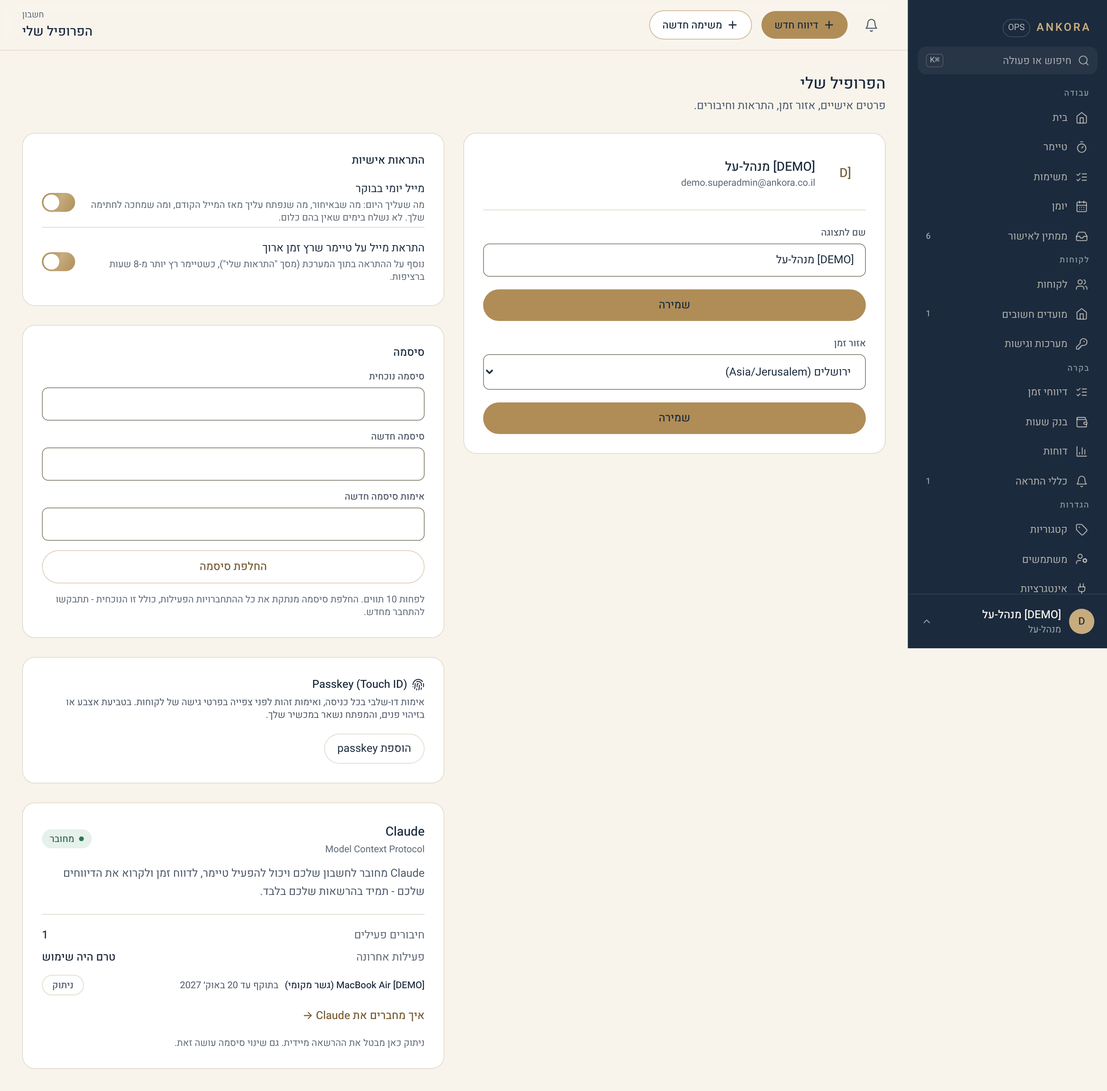
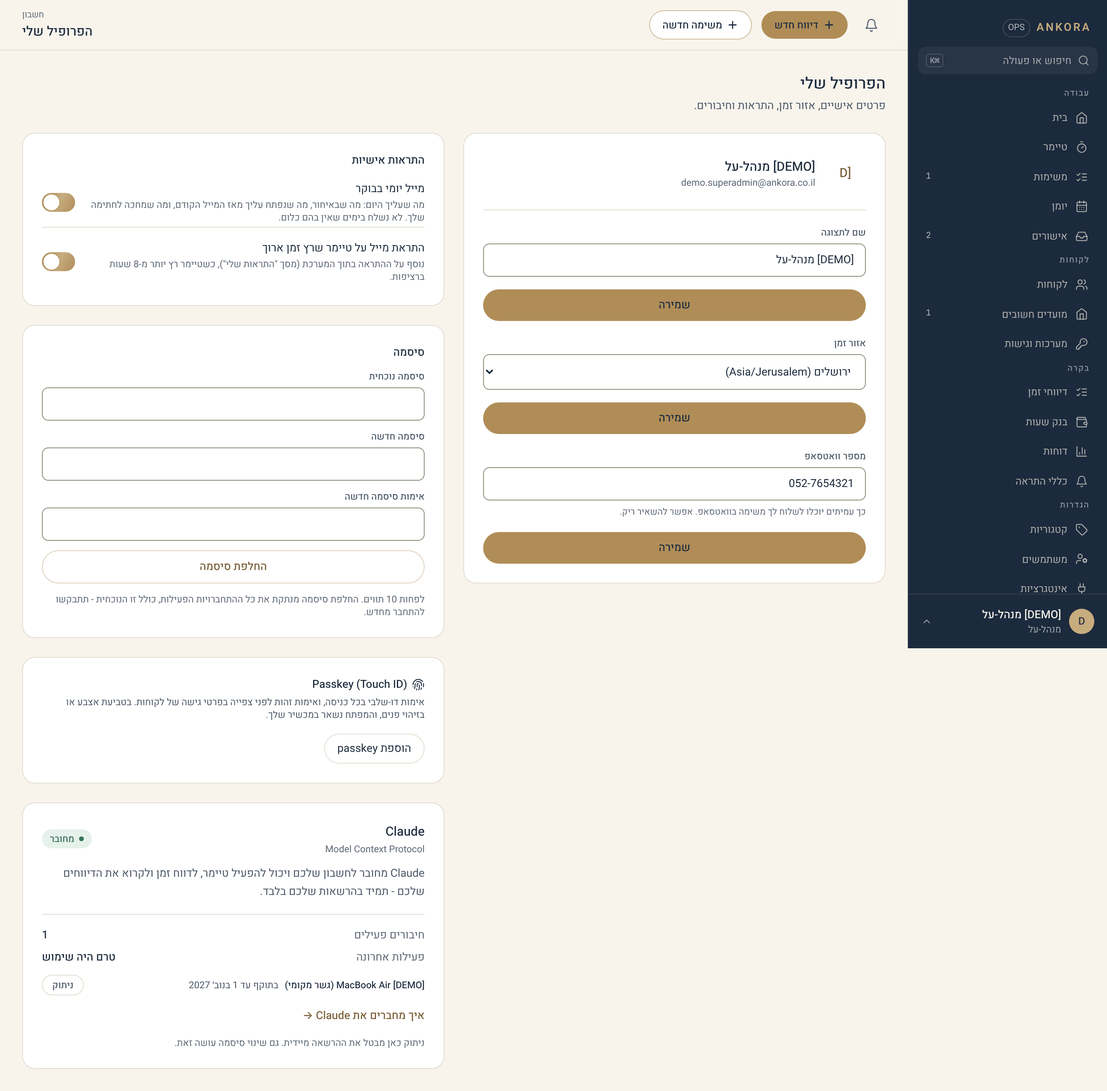
תיעוד: בדיקה שבועית 1.11 - מדריך, ERD ו-README
Claude-Session: https://claude.ai/code/session_015t38bRrRqjtbhz

Changed region(s): [[0.435, 0.4051, 0.7768, 0.5297]]

diff --git a/app/(product)/app/(authenticated)/guide/content.ts b/app/(product)/app/(authenticated)/guide/content.ts
@@ -200,7 +200,7 @@ export const GUIDE_GROUPS: GuideGroup[] = [
         ],
         steps: [
           "לניווט בין שבועות: חצים בראש רצועת השבוע.",
-          "להזנה ידנית: מלאו את שורת הטופס (תאריך, מ־/עד, לקוח, קטגוריה, הערה) ולחצו \"הוספת דיווח\". ההערה חובה: מה נעשה עבור הלקוח, בכמה מילים. בתאריך שאינו היום ייפתח גם שדה סיבה - הוא חובה.",
+          "להזנה ידנית: מלאו את שורת הטופס (תאריך, \"משעה\", \"עד שעה\", לקוח, קטגוריה, הערה) ולחצו \"הוספת דיווח\". ההערה חובה: מה נעשה עבור הלקוח, בכמה מילים. בתאריך שאינו היום ייפתח גם שדה סיבה - הוא חובה.",
           "לעריכה: לחצו \"עריכה\" בשורת הדיווח, בתוך חלון 48 השעות.",
         ],
         images: [{ src: "/guide/my-time.png", alt: "מסך הזמן שלי עם רשימת דיווחים שבועית", caption: "מסך \"הזמן שלי\" - תצוגה שבועית" }],
@@ -215,6 +215,8 @@ export const GUIDE_GROUPS: GuideGroup[] = [
           "לכל משימה סטטוס אחד מתוך חמישה: פתוחה, בביצוע, ממתינה לאישור, הושלמה, או בארכיון. שינוי סטטוס הוא מיידי ואינו דורש שמירה נפרדת.",
           "בדף של משימה מופיע גם \"גישות למערכות של\" הלקוח, כשנשמרו לו גישות. צפייה בסיסמה משם נרשמת ביומן יחד עם המשימה, ולכן זו הדרך המועדפת לצפות בגישה כשעובדים על משימה.",
           "רואים ויוצרים משימות רק עבור הלקוחות שהוקצו לכם (אותה הרשאה בדיוק כמו בבחירת לקוח במסך הטיימר) - אלא אם יש לכם הרשאת ניהול לקוחות, ואז רואים את כולם.",
+          "בדף של משימה, לצד הטיימר, יש שני כפתורים: \"שיתוף\" ו\"דיווח ידני\". נפתח רק אחד מהם בכל פעם.",
+          "\"בלי AI\": לקוח שביקש ששום דבר שלו לא יעבור דרך AI מסומן \"בלי AI\" בהגדרות הלקוח, ואז כל המשימות, המסמכים והתיק שלו מטופלים בידי אדם בלבד. אפשר לסמן גם משימה בודדת, בתיבה \"בלי AI: המשימה מטופלת בידי אדם בלבד\" בדף המשימה. השלבים והמסמכים של משימה מסומנת יורשים את הסימון. במשימה כזו אין \"קדם עם קלוד\", והפרומפטים והכלים של Claude לא קוראים אותה. כל איש צוות יכול לסמן, ורק מנהל יכול להסיר סימון, כי הסרה היא הכיוון ששולח חומר ל-AI. סימון שמגיע מהלקוח או ממשימת האב מוצג כעובדה ואי אפשר להסיר אותו מהמשימה.",
         ],
         steps: [
           "ליצירת משימה: במחשב לחצו \"משימה חדשה\" בפס העליון (ליד \"דיווח חדש\"), מכל מסך. בטלפון לחצו \"משימה\" במסך המשימות. בחלונית שנפתחת בחרו לקוח (וקטגוריה, אופציונלי), אחראי ומפקח (אופציונלי), הזינו שם משימה ולחצו \"הוספת משימה\".",
@@ -224,6 +226,10 @@ export const GUIDE_GROUPS: GuideGroup[] = [
           "למעבר בין תצוגות: מתג \"רשימה\" / \"לוח\" בראש המסך. בלוח ארבע עמודות לפי סטטוס (פתוחות, בביצוע, ממתינות לאישור, הושלמו), וגרירת כרטיס בין עמודות משנה את הסטטוס.",
           "לקיבוץ ולחיפוש: מתג \"לפי לקוח\" מקבץ את הרשימה לפי לקוח. בשדה החיפוש מחפשים בכותרת, בתיאור, בשרשור ובשם הלקוח - מקלידים ולוחצים Enter. לצדו בוררי \"לקוח\" ו\"קטגוריה\".",
           "לשינוי סטטוס: בחרו סטטוס חדש מהתפריט הנפתח ליד המשימה - השינוי נשמר אוטומטית.",
+          "למיון: לחצו על שם עמודה בכותרת הרשימה (לקוח, משימה, תאריך, אחראי, סטטוס, מפקח). לחיצה ראשונה ממיינת בסדר עולה, שנייה בסדר יורד, ושלישית מחזירה לסדר ברירת המחדל. בטלפון, שבו אין כותרת, יש בורר \"מיון\". המיון נשמר בכתובת, ולכן החזרה ממשימה חוזרת לאותו סדר.",
+          "לשינוי תאריך יעד: לחצו על התאריך בשורת המשימה, או על \"הוספת תאריך יעד\" כשאין תאריך, ובחרו תאריך מהבורר. השינוי נשמר מיד, בלי לפתוח את המשימה.",
+          "לדיווח זמן שהטיימר פספס: בדף המשימה לחצו \"דיווח ידני\", מלאו תאריך, \"מ־\", \"עד\" והערה (ההערה מתחילה בשם המשימה), ולחצו \"שמירת דיווח\". הדיווח נרשם על לקוח המשימה ועליה.",
+          "לשליחת משימה לעמית: בדף המשימה לחצו \"שיתוף\", בחרו \"למי\" (או \"בלי נמען\"), הוסיפו הערה אם רוצים, ולחצו \"טיוטה ב-Gmail\" או \"וואטסאפ\". ההודעה כוללת שם משימה, לקוח, סטטוס, עדיפות, תאריך יעד וקישור. \"העתקת ההודעה\" מעתיקה אותה לכל מקום אחר.",
         ],
         images: [
           { src: "/guide/tasks.png", alt: "מסך המשימות עם לשוניות סטטוס", caption: "מסך \"משימות\"" },
@@ -257,6 +263,7 @@ export const GUIDE_GROUPS: GuideGroup[] = [
         notes: [
           "קלוד לא שולח כלום ללקוח או לספק. הוא מנסח, ואתם שולחים. סגירת משימה, דיווח זמן, שינוי אחראי או תאריך ופתיחת החלטה ללקוח נעשים רק אחרי שאישרתם בשיחה.",
           "התוכנית פנימית ולא מוצגת בפורטל הלקוח. הפרומט לא כולל סיסמאות מהכספת, כרטיסי אשראי או פרטי קשר של הלקוח.",
+          "משימה שמסומנת \"בלי AI\", או משימה של לקוח שמסומן כך, לא מקבלת את הכפתור: במקומו כתוב \"בלי AI: אין \"קדם עם קלוד\" במשימה הזו. היא מטופלת בידי אדם בלבד.\"",
           "אם מישהו שמר גרסה חדשה בזמן שעבדתם, השמירה לא דורסת אותה. קלוד יציג את ההבדל וישאל לפני שהוא שומר שוב.",
         ],
         images: [{ src: "/guide/advance-with-claude.png", alt: "אזור \"תוכנית עבודה\" בדף המשימה", caption: "אזור \"תוכנית עבודה\", עם הגרסה, מי אישר ומתי" }],
@@ -334,6 +341,7 @@ export const GUIDE_GROUPS: GuideGroup[] = [
           "שדה החיפוש שבראש המסך מסנן את הרשת תוך כדי הקלדה, בלי כפתור שליחה.",
           "בתחתית כל כרטיס יש קיצורי דרך לפי ההרשאות שלכם: \"בנק שעות\" (פתיחת המסך של אותו לקוח, למנהל-על) ו\"דוח פעילות\" (קפיצה לטאב תקציר הפעילות במסך הדוחות, עם הלקוח כבר מסונן). כפתור שלישי, \"תצוגת לקוח\", פותח את פורטל הלקוח בדיוק כפי שהלקוח רואה אותו - לקריאה בלבד, והכניסה נרשמת ביומן הפעולות.",
           "לחיצה על שם לקוח פותחת את דף הפרטים שלו, שם ניתן לערוך את הפרטים, לראות את הקטגוריות ואנשי הצוות המשויכים אליו, ולנהל את ההרשמה ללוחות חגים.",
+          "בעריכת הלקוח שני מתגים חדשים. \"בלי AI\": הלקוח ביקש ששום דבר שלו לא יעבור דרך מערכות AI, כלומר משימות, מסמכים ותיק הלקוח מטופלים בידי אדם בלבד. \"הפרדה באישור נהלים\": מי שכתב גרסה של נוהל לא מאשר אותה, גם כשהוא מנהל. מיועד ללקוח שהמבקר שלו דורש הפרדה, וכבוי כברירת מחדל.",
           "לקוח לא נמחק לצמיתות - רק מועבר לארכיון (soft delete), כדי לשמר את כל ההיסטוריה וה-audit trail שלו. בתחתית המסך נפתח אזור \"בארכיון (N)\" עם הלקוחות שהועברו לשם.",
         ],
         steps: [
@@ -402,6 +410,7 @@ export const GUIDE_GROUPS: GuideGroup[] = [
         description: [
           "במסך של לקוח יש שתי לשוניות. \"עבודה שוטפת\" נשארה כמו שהייתה: משימות, מסמכים, החלטות ומועדים. \"תיק הלקוח\" מחזיקה את מה שצריך לדעת כדי לעבוד איתו.",
           "בתיק: סקירה, רקע והתפקיד שלנו; ישויות משפטיות (למשל Inc ו-LTD); אנשים ויחסים; ספקים ונותני שירות; עובדות (תחום אחריות, העדפות, דרישות, כספים, מידע זמני, החלטות ושאלות פתוחות); סוגי פניות ודרכי מענה; מפת מערכות; ומרשם המקורות והדומיינים.",
+          "בצד התיק (ובטלפון, כשורת כפתורים מעליו) יש אינדקס חלקים: \"הכול\", \"סקירה וישויות\", \"אנשים וספקים\", \"עובדות ושאלות\", \"תהליכים ונהלים\", \"כללים\", \"סוגי פניות\", \"מערכות וגישות\" ו\"מקורות\". לחיצה על חלק מציגה אותו לבדו, ו\"הכול\" מציג את התיק הארוך כולו. ליד כל חלק מספר הפריטים בו. \"ממתין לאישור\" מופיע ראשון, עם מספר מודגש, רק כשמשהו מחכה, ונעלם כשאין. החלק האחרון שנפתח חוזר בביקור הבא, בדפדפן הזה.",
           "בראש הלשונית מופיע \"כפילויות אפשריות (N)\": אנשי קשר, ארגונים, מערכות, ישויות ומועדים שנראה שנכנסו לתיק פעמיים בכתיב שונה. משלימים את אחד מהם ומסירים את השני.",
           "לכל פריט יש סטטוס: מאושר (הלקוח או ספק שלו אמר או הראה במפורש), לא ודאי, או חסר. פריט שאינו מאושר מציג גם מה יסגור אותו.",
           "לכל פריט יש מקור: קוד במרשם המקורות של הלקוח (S1, S2) ודקה בהקלטה כשיש. מקורות נרשמים פעם אחת, ב\"מרשם מקורות\", ואז מציינים אותם ליד כל פריט, למשל \"S1 08:13\".",
@@ -410,7 +419,7 @@ export const GUIDE_GROUPS: GuideGroup[] = [
           "אדם וארגון נשמרים פעם אחת לכל אנקורה. שותף כמו משרד רואי חשבון שעובד עם כמה לקוחות מופיע אצל כל אחד מהם עם הקשר משלו, ומה שכתוב עליו אצל לקוח אחד לא מוצג אצל לקוח אחר.",
         ],
         steps: [
-          "פותחים לקוח במסך \"לקוחות\" ועוברים ללשונית \"תיק הלקוח\".",
+          "פותחים לקוח במסך \"לקוחות\" ועוברים ללשונית \"תיק הלקוח\". באינדקס בוחרים חלק, או \"הכול\".",
           "קודם רושמים מקור: \"+ מקור\" במרשם המקורות, עם סוג (הקלטה, מסמך של הלקוח, משימה, נמסר בעל פה, מסמך של אנקורה, מייל) ושם.",
           "מוסיפים פריט עם הכפתור של הסעיף (\"+ איש קשר\", \"+ פריט\", \"+ מערכת\" וכו'), ומציינים את קוד המקור בשדה \"מקורות\".",
           "לשאלה פתוחה: \"+ פריט\" ובחירת \"שאלה פתוחה\". כשיש תשובה, \"תשובה\" עם המקור שלה. \"למשימה\" פותחת משימה למי שאחראי לברר.",
@@ -454,18 +463,21 @@ export const GUIDE_GROUPS: GuideGroup[] = [
         id: "client-processes",
         title: "תהליכים ונהלים",
         roles: ["SUPER_ADMIN", "ANKORA_ADMIN"],
-        summary: "מה חוזר אצל הלקוח, מי אחראי, מה מפעיל את זה, ואיך עושים את זה. נוהל רץ רק אחרי שמנהל אישר אותו.",
+        summary: "מה חוזר אצל הלקוח, מי אחראי, מה מפעיל את זה, ואיך עושים את זה. נוהל רץ רק אחרי שמנהל או מנהל התיק של הלקוח אישרו אותו.",
         description: [
           "\"תהליכים\" בלשונית תיק הלקוח. לכל תהליך קוד (P1, P2), טריגר, בעלים, ואיפה הוא עומד בחפיפה: אצל הלקוח, בחפיפה, אצלנו, או לא עובר אלינו.",
           "בראש כל כרטיס כתוב אם התהליך רץ. תהליך רץ כשיש לו אחראי, כתוב מה מפעיל אותו, יש לו נוהל מאושר, וכשהוא לפי מועד, יש לו מועד הבא. כשאחד מאלה חסר כתובה באדום הסיבה האחת, למשל \"לא ירוץ: אין נוהל מאושר\".",
           "התיעוד מוצג בנפרד ובשקט, \"תיעוד 4 מתוך 6\": SLA, מערכות, הרשאות, ספי אישור ומאשר, גורם חיצוני ונוהל חריגים. הוא לא עוצר ריצה. שדה שלא שייך לתהליך מסמנים \"לא רלוונטי\" בלחיצה (מנהל או הבעלים של התהליך), והוא יוצא מהספירה. \"(ביטול)\" ליד הסימון מחזיר אותו. מאשר שכתוב בשם מספיק לספי אישור ומאשר.",
           "מערכת או איש קשר מהתיק שמוזכרים בשלבים או בתיאור של התהליך ועוד לא מקושרים, מופיעים בכרטיס עם כפתור \"לקשר\". שום דבר לא מקושר לבד.",
+          "הנוהל המאושר מצויר בכרטיס כתרשים: פס של הימים שבהם משהו קורה, ומתחתיו עמודת שלבים לכל יום. בתהליך לפי מועד יום 0 הוא \"המועד\", עם התאריך. שלב שדורש אישור או שמגיע אחרי הזמן המוגדר מסומן. התרשים הוא ברירת המחדל. מתג \"טקסט\" לצד \"תרשים\" מחזיר את כל הכרטיסים לרשימה, והבחירה נשמרת בדפדפן.",
+          "עריכת התהליך וכתיבת הנוהל נפתחות בחלונית צד בחצי מסך. שדות העריכה מקובצים (\"מה ומתי\", \"מי\", \"זמנים ובקרה\", \"מערכות וגורמים\", \"מצב\", \"חריגים ומסמך הנוהל\"), ושדות פחות נפוצים מסתתרים מאחורי \"הצג עוד\", עם ספירה של מה שכבר מלא. ב\"עוד\" בכרטיס: השהיה, חידוש והסרה של התהליך.",
+          "\"מבחן הזר\" שואל אם מי שמעולם לא עשה את התהליך יכול להריץ אותו מחר. בכרטיס כתוב מצבו (\"מבחן הזר: עוד לא הורץ\", \"2 חוסמים, 5 שאלות פתוחות · 31.10\" או \"עבר\") והשאלות הפתוחות, כל אחת עם חומרה (חוסם, יאט, שיפור), השלב, ומי יודע (אצלנו או אצל הלקוח). \"מבחן הזר: העתקת הנחיה ל-Claude\" מעתיק הנחיה: Claude עובר על כל שלב מול התיק, המסמכים והלקחים, ורושם שאלות במקומות שבהם היה נתקע. מבחן חדש מחליף את השאלות שנשארו פתוחות. תשובה שנותנים ל-Claude נכנסת לתיק מיד כעובדה מאושרת, על שם מי שענה, בלי הצעה ובלי סבב אישור. תשובה שמשנה כלל: Claude שואל במפורש \"זה משנה את הכלל X מ-A ל-B. אתה מאשר?\", ורק על \"כן\", ממנהל או ממנהל התיק, הכלל מתעדכן ומאושר, והגרסה הקודמת נשמרת בהיסטוריה.",
           "בכל כרטיס תהליך יש שורה אחת \"הצעד הבא\": הדבר שעוצר הכי הרבה, מה מומלץ ולמה, וכפתור שעושה את זה. למשל: \"לקשר את המועד\" לתהליך לפי מועד בלי מועד הבא, או \"לסגור את שתיהן\" למשימות ישנות שהתהליך מכסה. מתחת, שאר הפערים כרשימה לסמן, לכל אחד הפעולה שלו. כשאין מה לסגור כתוב \"תקין\".",
           "הנוהל, הריצות, ההערות מריצות, המקורות וההיסטוריה נמצאים תחת \"פרטים\". הם סגורים, חוץ מכשטיוטת נוהל מחכה לאישור או כשהגעתם לתהליך מקישור.",
           "הנוהל נשמר בגרסאות. לכל שלב: מה עושים, איך (ידני, Claude מכין ואדם בודק, אוטומטי), כמה ימי עסקים מהמועד, מה השלב עושה (תשלום, חתימה, הודעה ללקוח), באילו מערכות, ומה נוצר בסופו.",
           "ריצה היא משימה: שם התהליך, השלבים של הנוהל המאושר כשלבי המשימה, כל אחד ביום העסקים שלו, והבעלים של התהליך כאחראי. בתיאור: הדגשים, מה חייב להיווצר, כללי הלקוח שחלים, חריגות מאושרות, פערים, ומה עושים כשמשהו חורג. מועד שמקושר לתהליך פותח ריצה מוקדם מספיק כדי שהשלב הראשון לא יאחר. תהליך מושהה לא פותח כלום, ושוטף לא נפתח כריצה.",
           "תהליך שוטף (איסוף חשבוניות, הנהלת חשבונות שוטפת) לא פותח משימות. הוא מופיע ב\"שגרה שוטפת\" במסך הבית של הבעלים (ושל המחליף, אם נקבע), ואפשר לקבוע לו בדיקה כל כמה ימים ומה בודקים. כשהבדיקה מגיעה הבעלים מקבל התראה. \"נבדק, הכול תקין\" נרשם בהיסטוריה של התהליך. \"נמצאה בעיה\" מחייב לכתוב מה נמצא, ופותח משימה להיום למי שבדק.",
-          "מנהל מאשר כל גרסה. לפני האישור רצות בדיקות: תשלום, חוזה, חתימה או אישור ספק חדש לא נעשים אוטומטית, וכש-Claude מכין אותם אדם מאשר. הודעה ללקוח לא נשלחת אוטומטית. שלב אוטומטי צריך לכתוב איך מוודאים שקרה. נוהל שמזיז כסף צריך שלב אישור כשללקוח יש כללי אישור. וסודות לא נכנסים לנוהל.",
+          "מנהל או מנהל התיק של הלקוח מאשרים כל גרסה. ללקוח שהוגדר אצלו \"הפרדה באישור נהלים\", מי שכתב את הגרסה לא מאשר אותה, גם כשהוא מנהל, ומישהו אחר מאשר. הבדיקות שלפני האישור לא תלויות במי מאשר. לפני האישור רצות בדיקות: תשלום, חוזה, חתימה או אישור ספק חדש לא נעשים אוטומטית, וכש-Claude מכין אותם אדם מאשר. הודעה ללקוח לא נשלחת אוטומטית. שלב אוטומטי צריך לכתוב איך מוודאים שקרה. נוהל שמזיז כסף צריך שלב אישור כשללקוח יש כללי אישור. וסודות לא נכנסים לנוהל.",
           "כללי הלקוח שמסומנים לבדיקה נבדקים מול כל שלב: סכום מעל הסף בלי אישור לפניו חוסם. שלב חובה שחסר, שלב שמגיע מאוחר מדי, הודעה בערוץ שהכלל לא מתיר, פעולה אסורה, או גורם חיצוני של ישות אחרת, מאושרים רק עם חריגה מאושרת לכלל. לשלב של תשלום אפשר לכתוב סכום מרבי ומטבע, ולשלב של הודעה ללקוח את הערוץ.",
           "הבדיקות רצות גם על הנוהל שכבר בתוקף. כשכלל של הלקוח נוסף, משתנה, מאושר או מבוטל, או כשחריגה מאושרת או נגמרת, כל הנהלים של הלקוח נבדקים מחדש. נוהל שכבר לא עומד בכללים מסומן \"דורש סקירה\", הבעלים מקבל התראה, ובכל ריצה פתוחה שלו נכתבת הערה עם מה שלא עומד. כשהכלל שחסם נעלם או מקבל חריגה, הסימון יורד לבד.",
           "סקירה תקופתית: \"סקירת הנוהל כל (ימים)\" בעריכת התהליך. כשהמועד מגיע, התהליך מסומן \"דורש סקירה\" והבעלים מקבל התראה. מנהל עובר על הנוהל ולוחץ \"סימון שנסקר\", או כותב גרסה חדשה. אישור גרסה חדשה גם הוא סקירה.",
@@ -479,7 +491,7 @@ export const GUIDE_GROUPS: GuideGroup[] = [
         steps: [
           "\"+ תהליך\", ממלאים מה שידוע. מה שלא ידוע נשאר ריק ומופיע כפער.",
           "\"כתיבת נוהל\": שלבים, דגשים ומה חייב להיווצר. נשמר כטיוטה.",
-          "מנהל לוחץ \"אישור הנוהל\". אם בדיקה נכשלת, היא כתובה על הטיוטה, ומתקנים לפני האישור.",
+          "מנהל או מנהל התיק של הלקוח לוחצים \"אישור הנוהל\". אם בדיקה נכשלת, היא כתובה על הטיוטה, ומתקנים לפני האישור.",
           "לתהליך לפי מועד: \"מועדים\" מקשר את המועדים של הלקוח שמפעילים אותו.",
           "תהליך שמופעל כשמשהו קורה או לפי בקשה: \"פתיחת ריצה\" ובוחרים את היום.",
           "תהליך שוטף: בעריכה ממלאים \"בדיקה כל (ימים)\" ו\"מה בודקים\". את הבדיקה רושמים ב\"רישום בדיקה\", מהכרטיס או מ\"שגרה שוטפת\" במסך הבית.",
@@ -494,9 +506,9 @@ export const GUIDE_GROUPS: GuideGroup[] = [
         id: "client-rules",
         title: "כללים של הלקוח",
         roles: ["SUPER_ADMIN", "ANKORA_ADMIN"],
-        summary: "מה מותר ומה אסור אצל הלקוח, מי מאשר, מה לא מספרים למי, ומה לא נכנס לתיק. כלל מחייב רק אחרי שמנהל אישר אותו.",
+        summary: "מה מותר ומה אסור אצל הלקוח, מי מאשר, מה לא מספרים למי, ומה לא נכנס לתיק. כלל מחייב רק אחרי שמנהל או מנהל התיק של הלקוח אישרו אותו.",
         description: [
-          "\"כללים של הלקוח\" בלשונית תיק הלקוח. כל מי שעובד על הלקוח יכול לכתוב כלל, עם מקור כמו כל פריט בתיק. כלל חדש הוא \"מוצע\" עד שמנהל מאשר אותו.",
+          "\"כללים של הלקוח\" בלשונית תיק הלקוח. כל מי שעובד על הלקוח יכול לכתוב כלל, עם מקור כמו כל פריט בתיק. כלל חדש הוא \"מוצע\" עד שמנהל או מנהל התיק של הלקוח מאשרים אותו. ביטול כלל נשאר בידי מנהל.",
           "כלל שמתיר משהו (סף, אישור) צריך כלל ביניים: מה עושים עד שהוא מאושר. למשל \"תוכנה עד 3,000$ בשנה מאושרת\", ועד האישור \"כל הוצאה עוברת לאורן\". כלל מגביל בלי כלל ביניים חל כפי שהוא כתוב, כבר מהרגע שנכתב.",
           "כללי טיפול במידע נשלחים לכל חילוץ, ידני ויומי, ו-Claude לא מציע מה שהם לא מתירים. כללי חשיפה מוצגים בראש מסך הלקוח, בשתי הלשוניות. כל הכללים מופיעים בתיק לקריאה ובתיק ש-Claude מקבל.",
           "כלל על שלבי עבודה נבדק מול הנהלים כשמסמנים \"לבדוק את הכלל מול הנהלים\" וממלאים מה בודקים: סכום ומטבע לסף, פעולות לאישור ולאיסור, ימי עסקים לתזמון, ערוצים לתקשורת, ניסוח לשלב חובה, וישויות להפרדה. בלי זה הכלל נקרא על ידי אנשים ועל ידי Claude בלבד, והמסך אומר זאת ליד הכלל.",
@@ -507,7 +519,7 @@ export const GUIDE_GROUPS: GuideGroup[] = [
         ],
         steps: [
           "\"+ כלל\", בוחרים סוג, כותבים את הכלל ואת המקור.",
-          "מנהל לוחץ \"אישור הכלל\". כלל שעדיין לא ודאי לא מאשרים: קודם מוודאים מול הלקוח.",
+          "מנהל או מנהל התיק של הלקוח לוחצים \"אישור הכלל\". כלל שעדיין לא ודאי לא מאשרים: קודם מוודאים מול הלקוח.",
           "כלל שכבר לא בתוקף מבטלים, עם סיבה בשורה אחת. הוא נשאר בהיסטוריה.",
         ],
         notes: [
@@ -800,6 +812,7 @@ export const GUIDE_GROUPS: GuideGroup[] = [
           "לחצו \"העתק ללוח\" והדביקו את הטקסט בשיחה עם ChatGPT/Claude, או \"הורדה כקובץ טקסט\" לשמירה מקומית.",
         ],
         notes: [
+          "לקוח שמסומן \"בלי AI\" לא מקבל תקציר: במקומו מוצגת הודעה. בלקוח אחר, דיווח שמשויך למשימה מסומנת \"בלי AI\" נשאר עם השעות, בלי ההערה, ושם המשימה מוחלף ב\"משימה בלי AI\".",
           "אין אפשרות לבחור \"כל הלקוחות\" בטאב הזה במכוון - תקציר שמערבב הערות פנימיות משני לקוחות שונים עלול להיות גם מבלבל ל-AI וגם בעייתי מבחינת חשיפת מידע בין לקוחות.",
         ],
       },
@@ -1048,6 +1061,7 @@ export const GUIDE_GROUPS: GuideGroup[] = [
         description: [
           "מסך זה מיועד לעדכון ההעדפות האישיות שלכם - לא של משתמשים אחרים, ולא של הגדרות מערכת. כל תפקיד, כולל לקוח, יכול לגשת אליו.",
           "\"התראות אישיות\": שני מתגים. \"מייל יומי בבוקר\" שולח לכם בבוקר את מה שעליכם היום, ו\"התראת מייל על טיימר שרץ זמן ארוך\" קובע אם תקבלו גם מייל (בנוסף להתראה בתוך המערכת) כשטיימר שלכם רץ יותר מ-8 שעות ברציפות. כיבוי המתג השני לא מבטל את ההתראה בתוך המערכת (מסך \"התראות שלי\") - רק את המייל הנוסף.",
+          "\"מספר וואטסאפ\" (לצוות Ankora בלבד): המספר שאליו נפתחת שיחת וואטסאפ כשעמית משתף איתכם משימה בכפתור \"שיתוף\". אפשר להשאיר ריק, ואז השיתוף אליכם אפשרי רק במייל.",
           "החלפת סיסמה דורשת הזנת הסיסמה הנוכחית לצורך אימות, בנוסף לסיסמה החדשה - בשונה מ\"שכחתי סיסמה\" (שאין בו סיסמה קודמת לאמת, כי המשתמש לא מחובר).",
           "\"Passkey (Touch ID)\": מופיע לכל התפקידים, אבל במשמעות שונה. לצוות Ankora זה האימות הדו-שלבי בכל כניסה, וגם האימות שנדרש לפני צפייה בסיסמה של לקוח במסך \"מערכות וגישות\". ללקוח זו שכבת הגנה אופציונלית לפורטל, שמפעילים בכרטיס עצמו ב\"הפעלת אימות דו-שלבי\". בשני המקרים: טביעת אצבע או זיהוי פנים במכשיר שלכם, והמפתח עצמו נשאר במכשיר ולא נשמר במערכת.",
           "מומלץ להחזיק יותר ממכשיר אחד, למשל מחשב וטלפון, כדי שאובדן של אחד לא ינעל את הכניסה. הכפתור הראשי בכרטיס הוא \"הפקת קוד למכשיר חדש\": מפיקים כאן קוד, ומקלידים אותו במכשיר החדש אחרי הסיסמה. אם איבדתם את כל המכשירים, מנהל-על יכול לאפס את ה-passkeys שלכם מדף המשתמש שלכם.",
@@ -1056,6 +1070,7 @@ export const GUIDE_GROUPS: GuideGroup[] = [
         steps: [
           "לעדכון שם התצוגה: ערכו את השדה \"שם לתצוגה\" ולחצו \"שמירה\".",
           "לעדכון אזור זמן: בחרו אזור זמן מהרשימה ולחצו \"שמירה\".",
+          "להוספת מספר וואטסאפ: הקלידו אותו בשדה \"מספר וואטסאפ\" ולחצו \"שמירה\". ההודעה \"המספר נשמר.\" מאשרת.",
           "לשינוי מיילים אישיים: לחצו על אחד משני המתגים בכרטיס \"התראות אישיות\" - השינוי נשמר מיידית, בלי כפתור שמירה נפרד.",
           "להחלפת סיסמה: מלאו סיסמה נוכחית, סיסמה חדשה ואימות סיסמה חדשה, ולחצו \"החלפת סיסמה\".",
           "להוספת ה-passkey הראשון: בכרטיס \"Passkey (Touch ID)\" לחצו \"הוספת passkey\", תנו שם למכשיר, הקלידו את הסיסמה שלכם לאנקורה, לחצו \"המשך ל-Touch ID\" ואשרו בטביעת אצבע. כשכבר יש passkey, אותו כפתור נקרא \"רישום מפתח נוסף בדפדפן או במכשיר הזה\".",

diff --git a/docs/erd.md b/docs/erd.md
@@ -75,6 +75,7 @@ erDiagram
         int tokenVersion
         int failedLoginAttempts
         datetime lockedUntil
+        string whatsappNumber "nullable, the number a task share opens a WhatsApp chat with, as typed on the profile screen"
         datetime deletedAt
     }
 
@@ -95,6 +96,8 @@ erDiagram
         string sourceKeywords "(list) words that name the client in a meeting title"
         string driveFolderId "nullable, the Drive folder its conversations are saved to"
         string conversationsDocId "nullable, the running conversations document"
+        bool aiExcluded "nothing of this client passes through AI: its tasks, documents and file"
+        bool procedureApprovalSeparation "whoever wrote a version of a procedure does not approve it, default false"
         datetime deletedAt
     }
 
@@ -141,6 +144,7 @@ erDiagram
         string source "local or external provider name"
         string externalRef "nullable"
         bool mappingTask "a handover mapping stage: what it learns goes to the client file before it closes"
+        bool aiExcluded "the client asked that this task stay away from AI; steps and documents inherit it"
         datetime deletedAt
     }
 
@@ -593,6 +597,7 @@ erDiagram
         string mimeType
         int sizeBytes "nullable"
         boolean clientVisible
+        boolean aiExcluded "this document stays away from AI, also when its task or client is excluded"
         string uploadedById FK "nullable"
         datetime createdAt
         datetime updatedAt
@@ -1042,6 +1047,7 @@ erDiagram
     Process ||--o{ ImportantDate : "has"
     Process ||--o{ ProcessCheck : "has"
     Process ||--o{ ProcessLesson : "has"
+    Process ||--o{ ProcessStrangerTest : "has"
     Process ||--o{ ProcessVersion : "has"
     Process ||--o{ RequestType : "has"
 
@@ -1214,6 +1220,37 @@ erDiagram
         datetime resolvedAt "nullable"
         string resolution "nullable"
     }
+
+    ProcessStrangerTest {
+        string id PK
+        string processId FK
+        string clientId
+        int version "nullable, the procedure version walked"
+        string summary "nullable"
+        string ranById "nullable"
+        string sourceCode "nullable, the source the answers are recorded under"
+        datetime createdAt
+    }
+
+    ProcessStrangerQuestion {
+        string id PK
+        string testId FK
+        string processId
+        string clientId
+        int step "nullable, 1-based, null for the process as a whole"
+        string severity "enum StrangerSeverity"
+        string askWho "enum StrangerAskWho"
+        string question
+        string status "enum StrangerQuestionStatus"
+        string answer "nullable"
+        string answeredById "nullable"
+        datetime answeredAt "nullable"
+        string factId "nullable, the fact the answer became"
+        string policyId "nullable, the rule the answer changed"
+        datetime createdAt
+    }
+
+    ProcessStrangerTest ||--o{ ProcessStrangerQuestion : "has"
 ```
 
 ### Internal suppliers: agreements
@@ -1300,6 +1337,9 @@ erDiagram
 | `SourceKind` | `TRANSCRIPT`, `CLIENT_DOCUMENT`, `TASK`, `PERSON`, `ANKORA_DOCUMENT`, `EMAIL` |
 | `SourceRestriction` | `NONE`, `TOPICS_ONLY` |
 | `SourceWeight` | `PRIMARY`, `SECONDARY` |
+| `StrangerAskWho` | `ANKORA`, `CLIENT` |
+| `StrangerQuestionStatus` | `OPEN`, `ANSWERED`, `NOT_RELEVANT`, `REPLACED` |
+| `StrangerSeverity` | `BLOCKER`, `SLOWS`, `IMPROVES` |
 | `SupplierExperience` | `GOOD`, `OK`, `AVOID` |
 | `SystemAccessStatus` | `HAS_ACCESS`, `PENDING`, `NO_ACCESS`, `NOT_NEEDED` |
 | `SystemPermission` | `NONE`, `VIEWER`, `USER`, `BILLING`, `ADMIN`, `OWNER` |

diff --git a/README.md b/README.md
@@ -264,7 +264,7 @@ existed.
 ### Claude Desktop (MCP)
 
 `/api/mcp` exposes the Time Tracking app to a staff member's Claude over
-the Model Context Protocol. 49 tools, by family:
+the Model Context Protocol. 51 tools, by family:
 
 | | |
 | --- | --- |
